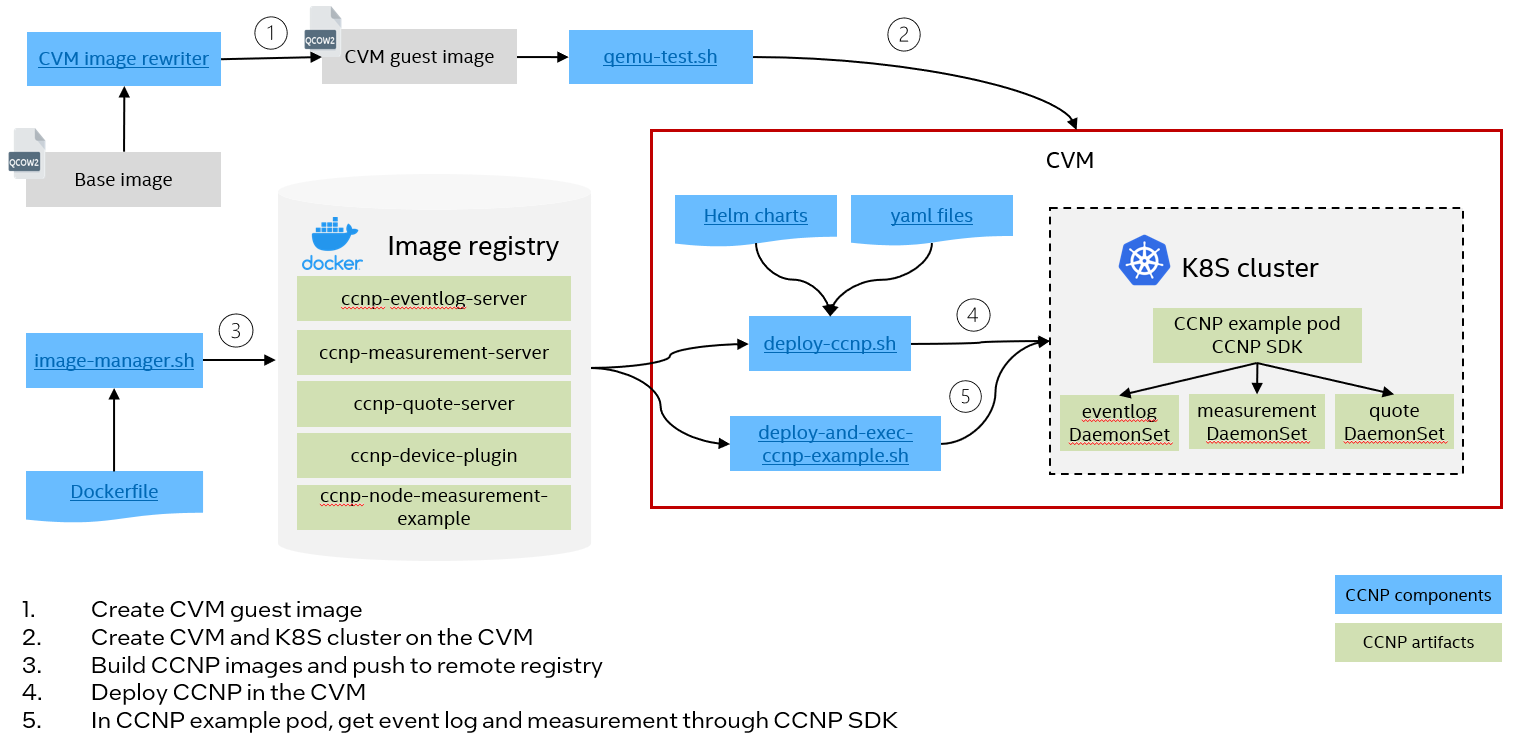
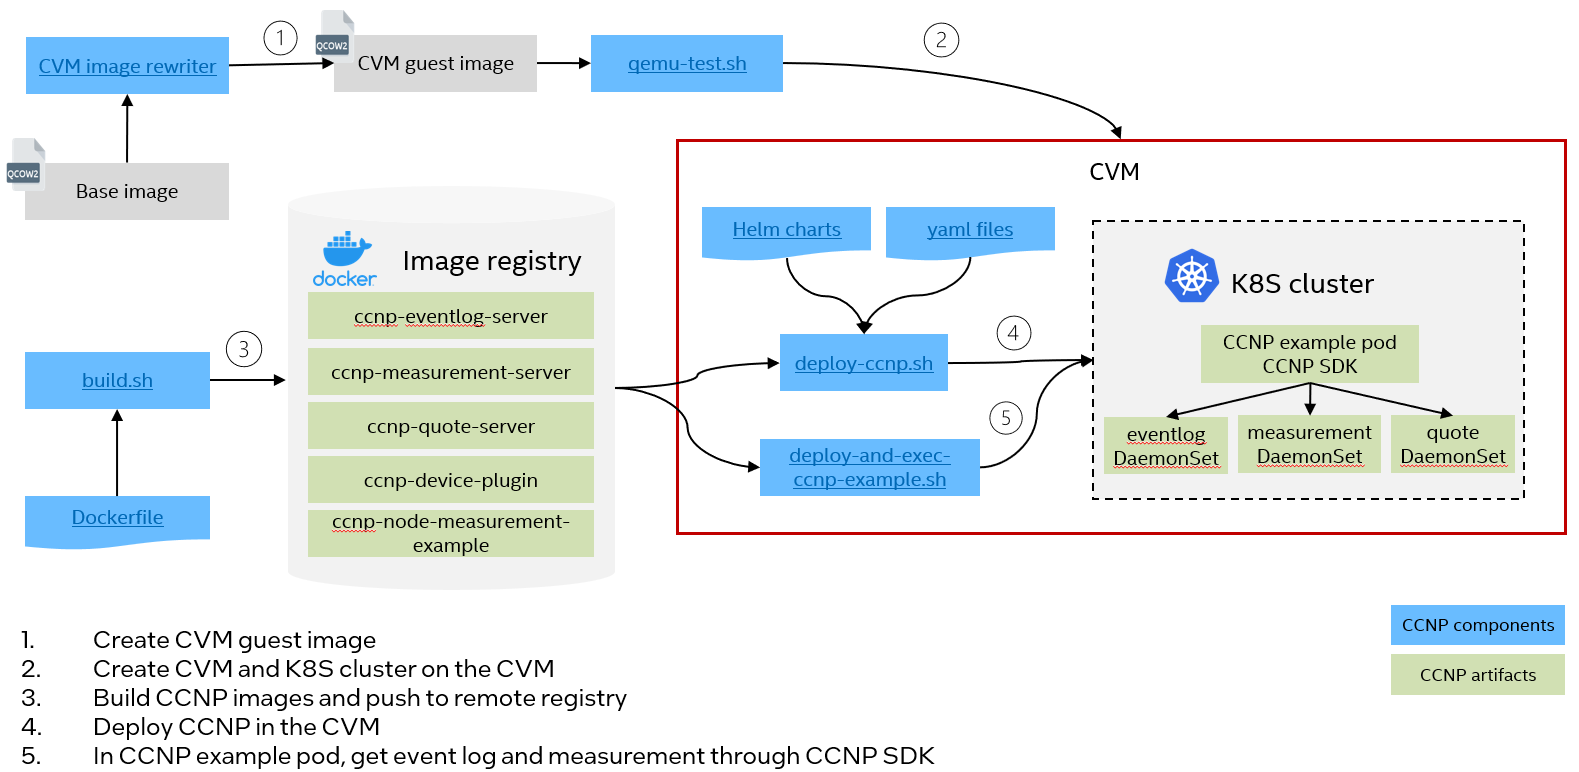
Update container dir name to align with deployment image names (#224)
* Update container dir name to align with deployment image names
1. Update container dir name
2. Update deployment guide

* Update README.md files using new directory names

---------

diff --git a/deployment/README.md b/deployment/README.md
@@ -25,7 +25,7 @@ TBD
 
 The following scripts can help to generate CCNP images and deploy them in the TD nodes.
 
-- [image-manager.sh](../deployment/script/image-manager.sh): The tool will build 5 images and push them to remote registry if required.
+- [build.sh](../container/build.sh): The tool will build docker images and push them to remote registry if required.
 - [deploy-ccnp.sh](../deployment/script/deploy-ccnp.sh): The tool will deploy CCNP services as DaemonSet on TDs in the K8S cluster.
 - [deploy-and-exec-ccnp-example.sh](../deployment/script/deploy-and-exec-ccnp-example.sh): The tool will deploy an example pod and show getting event logs, measurement and perform verification using CCNP in the pod.
 
@@ -61,21 +61,21 @@ Run below scripts to generate CCNP images. It will generate 5 images and push th
 _NOTE: The scripts need to run on a server with docker installed._
 
 ```
-$ cd scripts
-$ sudo ./image-manager.sh -r <remote registry> -g <docker image tag>
+$ cd container
+$ sudo ./build.sh -r <remote registry> -g <docker image tag>
 
 e.g.
 
 # Build images with tag 0.3 and push them to remote registry test-registry.intel.com
-$ sudo ./image-manager.sh -r test-registry.intel.com/test -g 0.3
+$ sudo ./build.sh -r test-registry.intel.com/test -g 0.3
 
 # Build images only with tag 0.3
-$ sudo ./image-manager.sh -a build -g 0.3
+$ sudo ./build.sh -a build -g 0.3
 ```
 
 _NOTE: please set `HTTP_PROXY`, `HTTPS_PROXY`, `NO_PROXY` in your terminal if they are needed in your environments._
 
-After the script is successful, it's supposed to see below docker images.
+After the script is successful, it's supposed to see below docker images for CCNP.
 
 ```
 $ sudo docker images

diff --git a/service/quote-server/README.md b/service/quote-server/README.md
@@ -47,15 +47,15 @@ User need to have a kubernetes cluster ready to deploy the services. To simplify
 Also, the ccnp device plugin need to installed before the installation of quote server. Please refer to its [deployment guide](../../device-plugin/ccnp-device-plugin/README.md) for installation.
 
 ### Build docker image
-The Dockerfile for the service can be found under `container/quote-server` directory. Use the following command to build the image:
+The Dockerfile for the service can be found under `container/ccnp-quote-server` directory. Use the following command to build the image:
 
 ```
-docker build -t ccnp-quote-server:0.1 -f container/quote-server/Dockerfile .
+docker build -t ccnp-quote-server:<your image tag> -f container/ccnp-quote-server/Dockerfile .
 ```
 
 > Note: if you are using containerd as the default runtime for kubernetes, don't forget to use the following commands to import the image into containerd first:
 ```
-docker save -o ccnp-quote-server.tar ccnp-quote-server:0.1
+docker save -o ccnp-quote-server.tar ccnp-quote-server:<your image tag>
 ctr -n=k8s.io image import ccnp-quote-server.tar
 ```
 

diff --git a/service/measurement-server/README.md b/service/measurement-server/README.md
@@ -61,15 +61,15 @@ Also, the ccnp device plugin need to installed before the installation of measur
 
 ### Build docker image
 
-The dockerfile for the service can be found under `container/measurement-server` directory. Use the following command to build the image:
+The dockerfile for the service can be found under `container/ccnp-measurement-server` directory. Use the following command to build the image:
 
 ```
 cd ../..
-docker build -t ccnp-measurement-server:0.1 -f container/measurement-server/Dockerfile .
+docker build -t ccnp-measurement-server:<your image tag> -f container/ccnp-measurement-server/Dockerfile .
 ```
 > Note: if you are using containerd as the default runtime for kubernetes. Please remember to use the following commands to import the image into containerd first:
 ```
-docker save -o ccnp-measurement-server.tar ccnp-measurement-server:0.1
+docker save -o ccnp-measurement-server.tar ccnp-measurement-server:<your image tag>
 ctr -n=k8s.io image import ccnp-measurement-server.tar
 ```
 

diff --git a/service/eventlog-server/README.md b/service/eventlog-server/README.md
@@ -58,15 +58,15 @@ User need to have a kubernetes cluster ready to deploy the service. To simplify 
 
 ### Build docker image
 
-The dockerfile for the service can be found under `container/eventlog-server` directory. Use the following command to build the image:
+The dockerfile for the service can be found under `container/ccnp-eventlog-server` directory. Use the following command to build the image:
 
 ```
 cd ../..
-docker build -t ccnp-eventlog-server:0.1 -f container/eventlog-server/Dockerfile .
+docker build -t ccnp-eventlog-server:<your image tag> -f container/ccnp-eventlog-server/Dockerfile .
 ```
 > Note: if you are using containerd as the default runtime for kubernetes. Please remember to use the following commands to import the image into containerd first:
 ```
-docker save -o ccnp-eventlog-server.tar ccnp-eventlog-server:0.1
+docker save -o ccnp-eventlog-server.tar ccnp-eventlog-server:<your image tag>
 ctr -n=k8s.io image import ccnp-eventlog-server.tar
 ```
 

diff --git a/device-plugin/ccnp-device-plugin/README.md b/device-plugin/ccnp-device-plugin/README.md
@@ -93,12 +93,12 @@ Above label can be used as node selector by CCNP device plugin daemonset and CCN
 The Dockerfile for the service can be found under container/ccnp-device-plugin directory. 
 Use the following command to build the image under confidential-cloud-native-primitives directory:
 ```
-docker build -t ccnp-device-plugin:0.1 -f container/ccnp-device-plugin/Dockerfile .
+docker build -t ccnp-device-plugin:<your image tag> -f container/ccnp-device-plugin/Dockerfile .
 ```
 
 > Note: if you are using containerd as the default runtime for kubernetes, don't forget to use the following commands to import the image into containerd first:
 ```
-docker save -o ccnp-device-plugin.tar ccnp-device-plugin:0.1
+docker save -o ccnp-device-plugin.tar ccnp-device-plugin:<your image tag>
 ctr -n=k8s.io image import ccnp-device-plugin.tar
 ```
 
